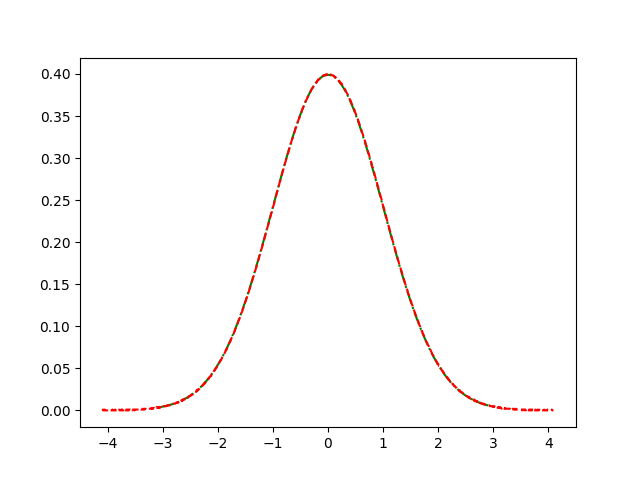
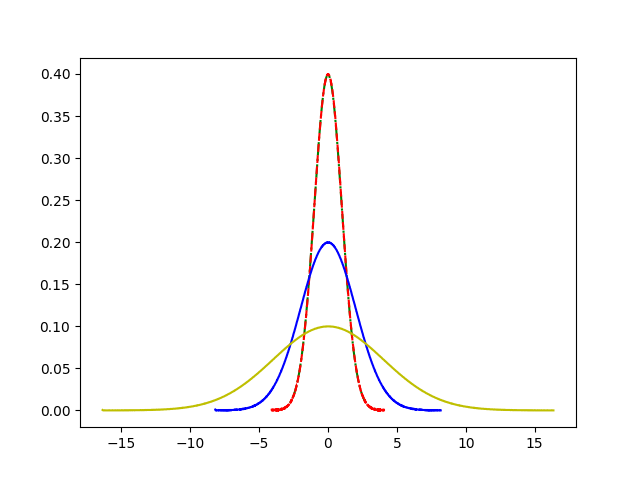
add random number genetor.

diff --git a/probility/gen_random_number.py b/probility/gen_random_number.py
@@ -1,22 +1,28 @@
 # encoding: utf8
 
 '''
+生成符合均匀分布的伪随机数
+
+梅森旋转
 intrudction: https://en.wikipedia.org/wiki/Mersenne_Twister
 
+线性同余法
 another pseudo method is : linear congruential generator, is too simple to use. 
   U(0., 1.):
      seed = 1103515245UL * seed + 12345UL
      rand_real_number = double(seed) / -1UL
 
 
-more complex: box-mueller, ...
+更复杂的算法: box-mueller, ...
 
 '''
 
 def _int32(x):
     # Get the 32 least significant bits.
     return int(0xFFFFFFFF & x)
-
+'''
+梅森旋转. 来自网上
+'''
 class MT19937:
     def __init__(self, seed):
         # Initialize the index to 0
@@ -59,8 +65,34 @@ class MT19937:
         self.index = 0
         #test
 
+'''
+线性同余法. 自己瞎bb了一个
+linear congruential generator
 
-if __name__ == "__main__":
+因为通过线性同余方法构建的伪随机数生成器的内部状态可以轻易地由其输出演算得知，所以此种伪随机数生成器属于统计学伪随机数生成器。
+
+设计密码学的应用必须至少使用密码学安全伪随机数生成器，故需要避免由线性同余方法获得的随机数在密码学中的应用。
+'''
+
+class LCG:
+    def __init__(self, seed):
+        self.n = seed
+        self.A = 1140671485
+        self.B = 128201163
+        self.M = 2**31
+
+    def extract_number(self):
+        # n_next = (A * n + B) % M
+        n_ = (self.A * self.n + self.B) % self.M
+        self.n = _int32(n_)
+    
+        return self.n
+
+
+'''
+梅森旋转的测试
+'''
+def test_MT():
     import time
     seed = int(time.time())
     a = MT19937(seed)
@@ -68,4 +100,23 @@ if __name__ == "__main__":
     b = MT19937(seed)
 
     print "a,b extract_number:", a.extract_number(), b.extract_number() 
+
+'''
+LCG的测试
+'''
+def test_LCG():
+    import time
+    seed = int(time.time())
+    a = LCG(seed)
+    seed = int(time.time())
+    b = LCG(seed)
+
     print "a,b extract_number:", a.extract_number(), b.extract_number() 
+
+
+if __name__ == "__main__":
+    print "test MT:"
+    test_MT()
+    
+    print "test LCG:"
+    test_LCG()

diff --git a/probility/gen_distribute_from_U.py b/probility/gen_distribute_from_U.py
@@ -157,6 +157,10 @@ plt.clf()
 gauss_x2, gauss_y2 = gen_gauss_distribute_pdf_from_dist_table(0, 1)
 plt.plot(gauss_x, gauss_y, 'g-.')
 plt.plot(gauss_x2, gauss_y2, 'r--')
+gauss_x2, gauss_y2 = gen_gauss_distribute_pdf_from_dist_table(0, 2)
+plt.plot(gauss_x2, gauss_y2, 'b-')
+gauss_x2, gauss_y2 = gen_gauss_distribute_pdf_from_dist_table(0, 4)
+plt.plot(gauss_x2, gauss_y2, 'y-')
 plt.savefig('images/norm_distribute.png', format='png')
 
 #指数分布相关

diff --git a/probility/standard_normal_dist.py b/probility/standard_normal_dist.py
@@ -11,7 +11,6 @@ normal_dist_table = None
 normal_dist_table_x = None
 normal_dist_table_p = None
 
-
 def load_from_json(jfile=normal_dist_json_file_name):
     global normal_dist_table_p, normal_dist_table_x, normal_dist_table
 

diff --git a/README.md b/README.md
@@ -2,25 +2,27 @@
 概率统计学入门。实现一些概率、采样、统计相关的算法
 
 ### 1. 概率入门的一些算法
-####    1). 不同分布随机数的生成。
+
+####    1). 均匀分布的伪随机数生成
+>   主要是两个算法：Mersenne_Twister(梅森旋转法), linear congruential(线性同余法). 算法来自网上.
+    里面有测试例子。从例子可以看出，相同的种子序列一样(这也是伪随机数)
+
+####    2). 不同分布随机数的生成
 
 >  包括从uniform生成符合正态分布、符合指数分布的随机数; 根据标准正态分布表汇制不同mu,sigma参数的正态分布图; 
     用pdf生成正态、指数分布图；根据采样数据集合，生成直方图
    备注下：用plt.bar生成柱状图时，需要 加条件:align='edge', 默认取 middle
 
->   code:[gen_distribute_from_U.py](probility/gen_distribute_from_U.py)
+>   code:[probility/gen_distribute_from_U.py](probility/gen_distribute_from_U.py)
 
->   images:[images](probility/images)
+>   images:[probility/images](probility/images)
 
-####    2). 标准正态分布表
->  主要转换了网上的标准正态分布表，并增加了算标准的Fx, Fx<sup>-1</sup>的功能
+####    3). 标准正态分布表
+>  主要转换了网上的标准正态分布表，并增加了算标准的F<sub>x</sub>, F<sub>X</sub><sup>-1</sup>的功能
 
 >   [probility/standard_normal_dist.py](probility/standard_normal_dist.py)
 
-####    3). 均匀分布的伪随机数生成
->   主要是两个算法：Mersenne_Twister, linear congruential. 算法来自网上
-
->   [probility/random_number_has_U.py](probility/random_number_has_U.py)
+>   [probility/gen_random_number.py](probility/gen_random_number.py)
 
 ####    4). 均匀分布随机数测试概率分布
 >   p=0.3 时，随试验次数增加，基本稳定在0.3 +- 0.005 左右; p=0.03时，随试验次数增加，偏差还是比较大 0.03 +- 0.005;
